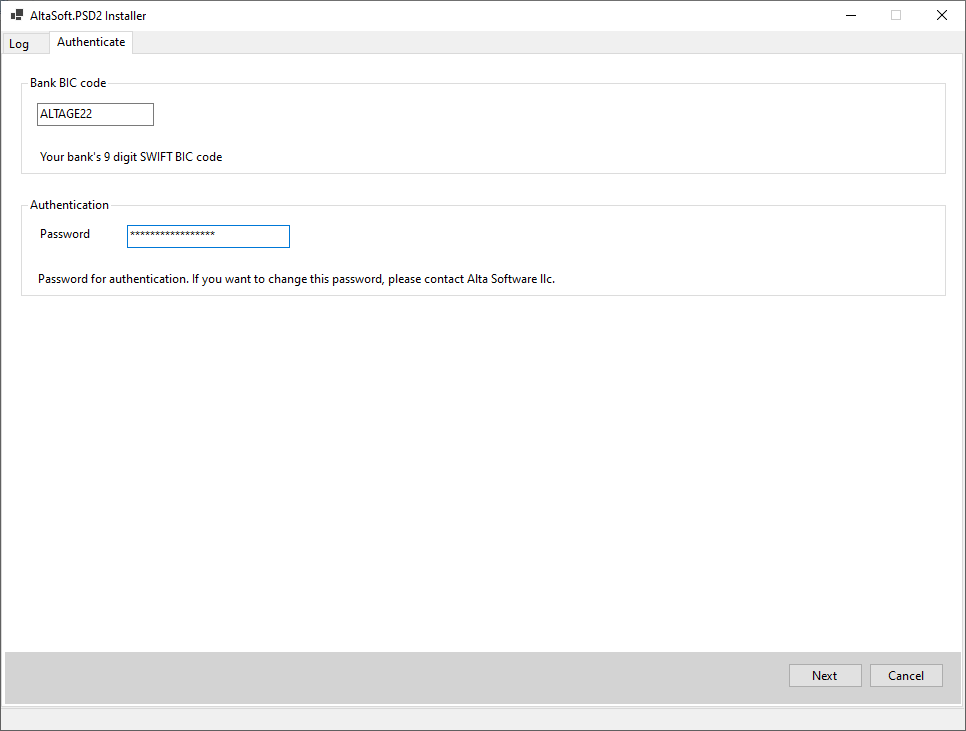
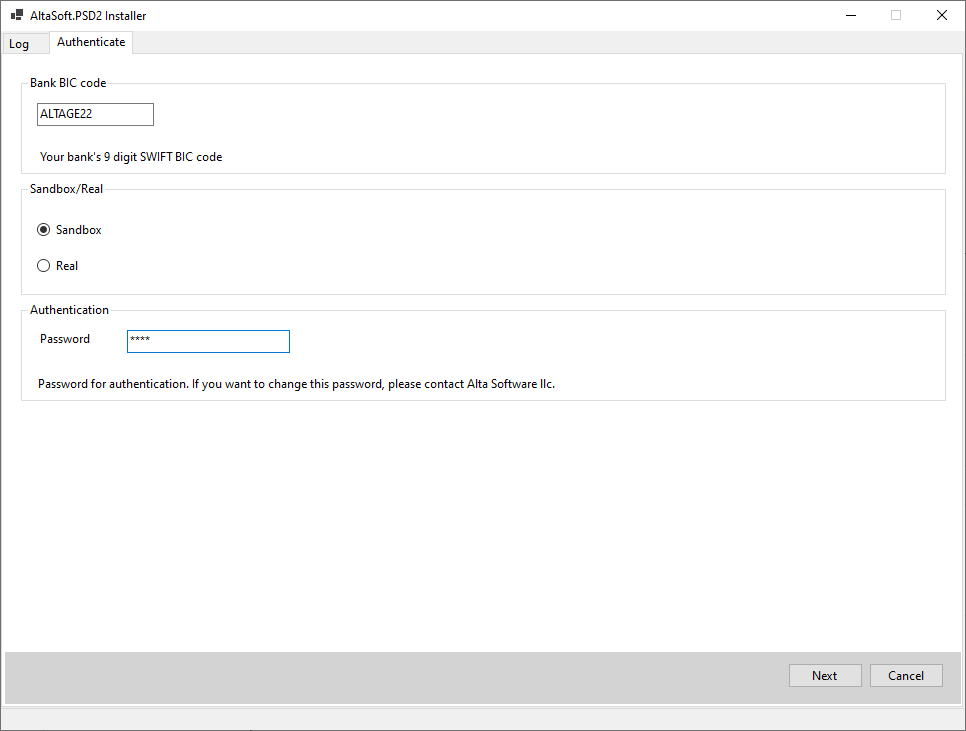
MC

diff --git a/Sandbox-Installation-guide.md b/Sandbox-Installation-guide.md
@@ -22,13 +22,16 @@
         ![Image](../main/Images/Installer-login.png)
 
         * Fill Bank BIC code - Your bank's 9 digit SWIFT BIC code
-        * Type your password and then press 'Next' button
+        * Select Sandbox or Real
+        * Type your password (1234) and then press 'Next' button
 
     1.  Now you will see the Database and Certificate screen:
 
         ![Image](../main/Images/Installer-sql.png)
 
-        * Fill SQL connection string for SQL server, where PSD2 database will be created. Database user ***must*** have ```db_owner``` rights on ```PSD2_Portal``` database *(You can use Sql connection string dialog by pressing '...' button)*
+        * Select ```SQL Server``` or ```DataAccess API```
+        * If you selected ```SQL Server```, then fill SQL connection string for SQL server, where PSD2 database will be created. Database user ***must*** have ```db_owner``` rights on ```PSD2_Portal``` database *(You can use Sql connection string dialog by pressing '...' button)*
+        * If you selected ```DataAccess API```, then fill DataAccess API-s URL and aslo Username and password for basic authentication
         * Fill your QSealC certificates thumbprint and press 'Next' button *(You can use Select Certificate dialog by pressing '...' button)*
             * Your QSealC certificate should be installed in ```Windows Certificate Store```-s ```Personal``` folder with store location = ```Local Machine```. 
             * It should have private key.

diff --git a/Manual-Sandbox-Installation-Guide.md b/Manual-Sandbox-Installation-Guide.md
@@ -172,7 +172,7 @@
             ![Image](../main/Images/SslSettings.png)
 
             1. Select ```Require SSL```
-            1. Select ```Require``` in ```Client certificates```
+            1. Select ```Accept``` in ```Client certificates```
         1. Press ```Apply``` button
 
     1. Install altasoftPsd2RootCa.crt
